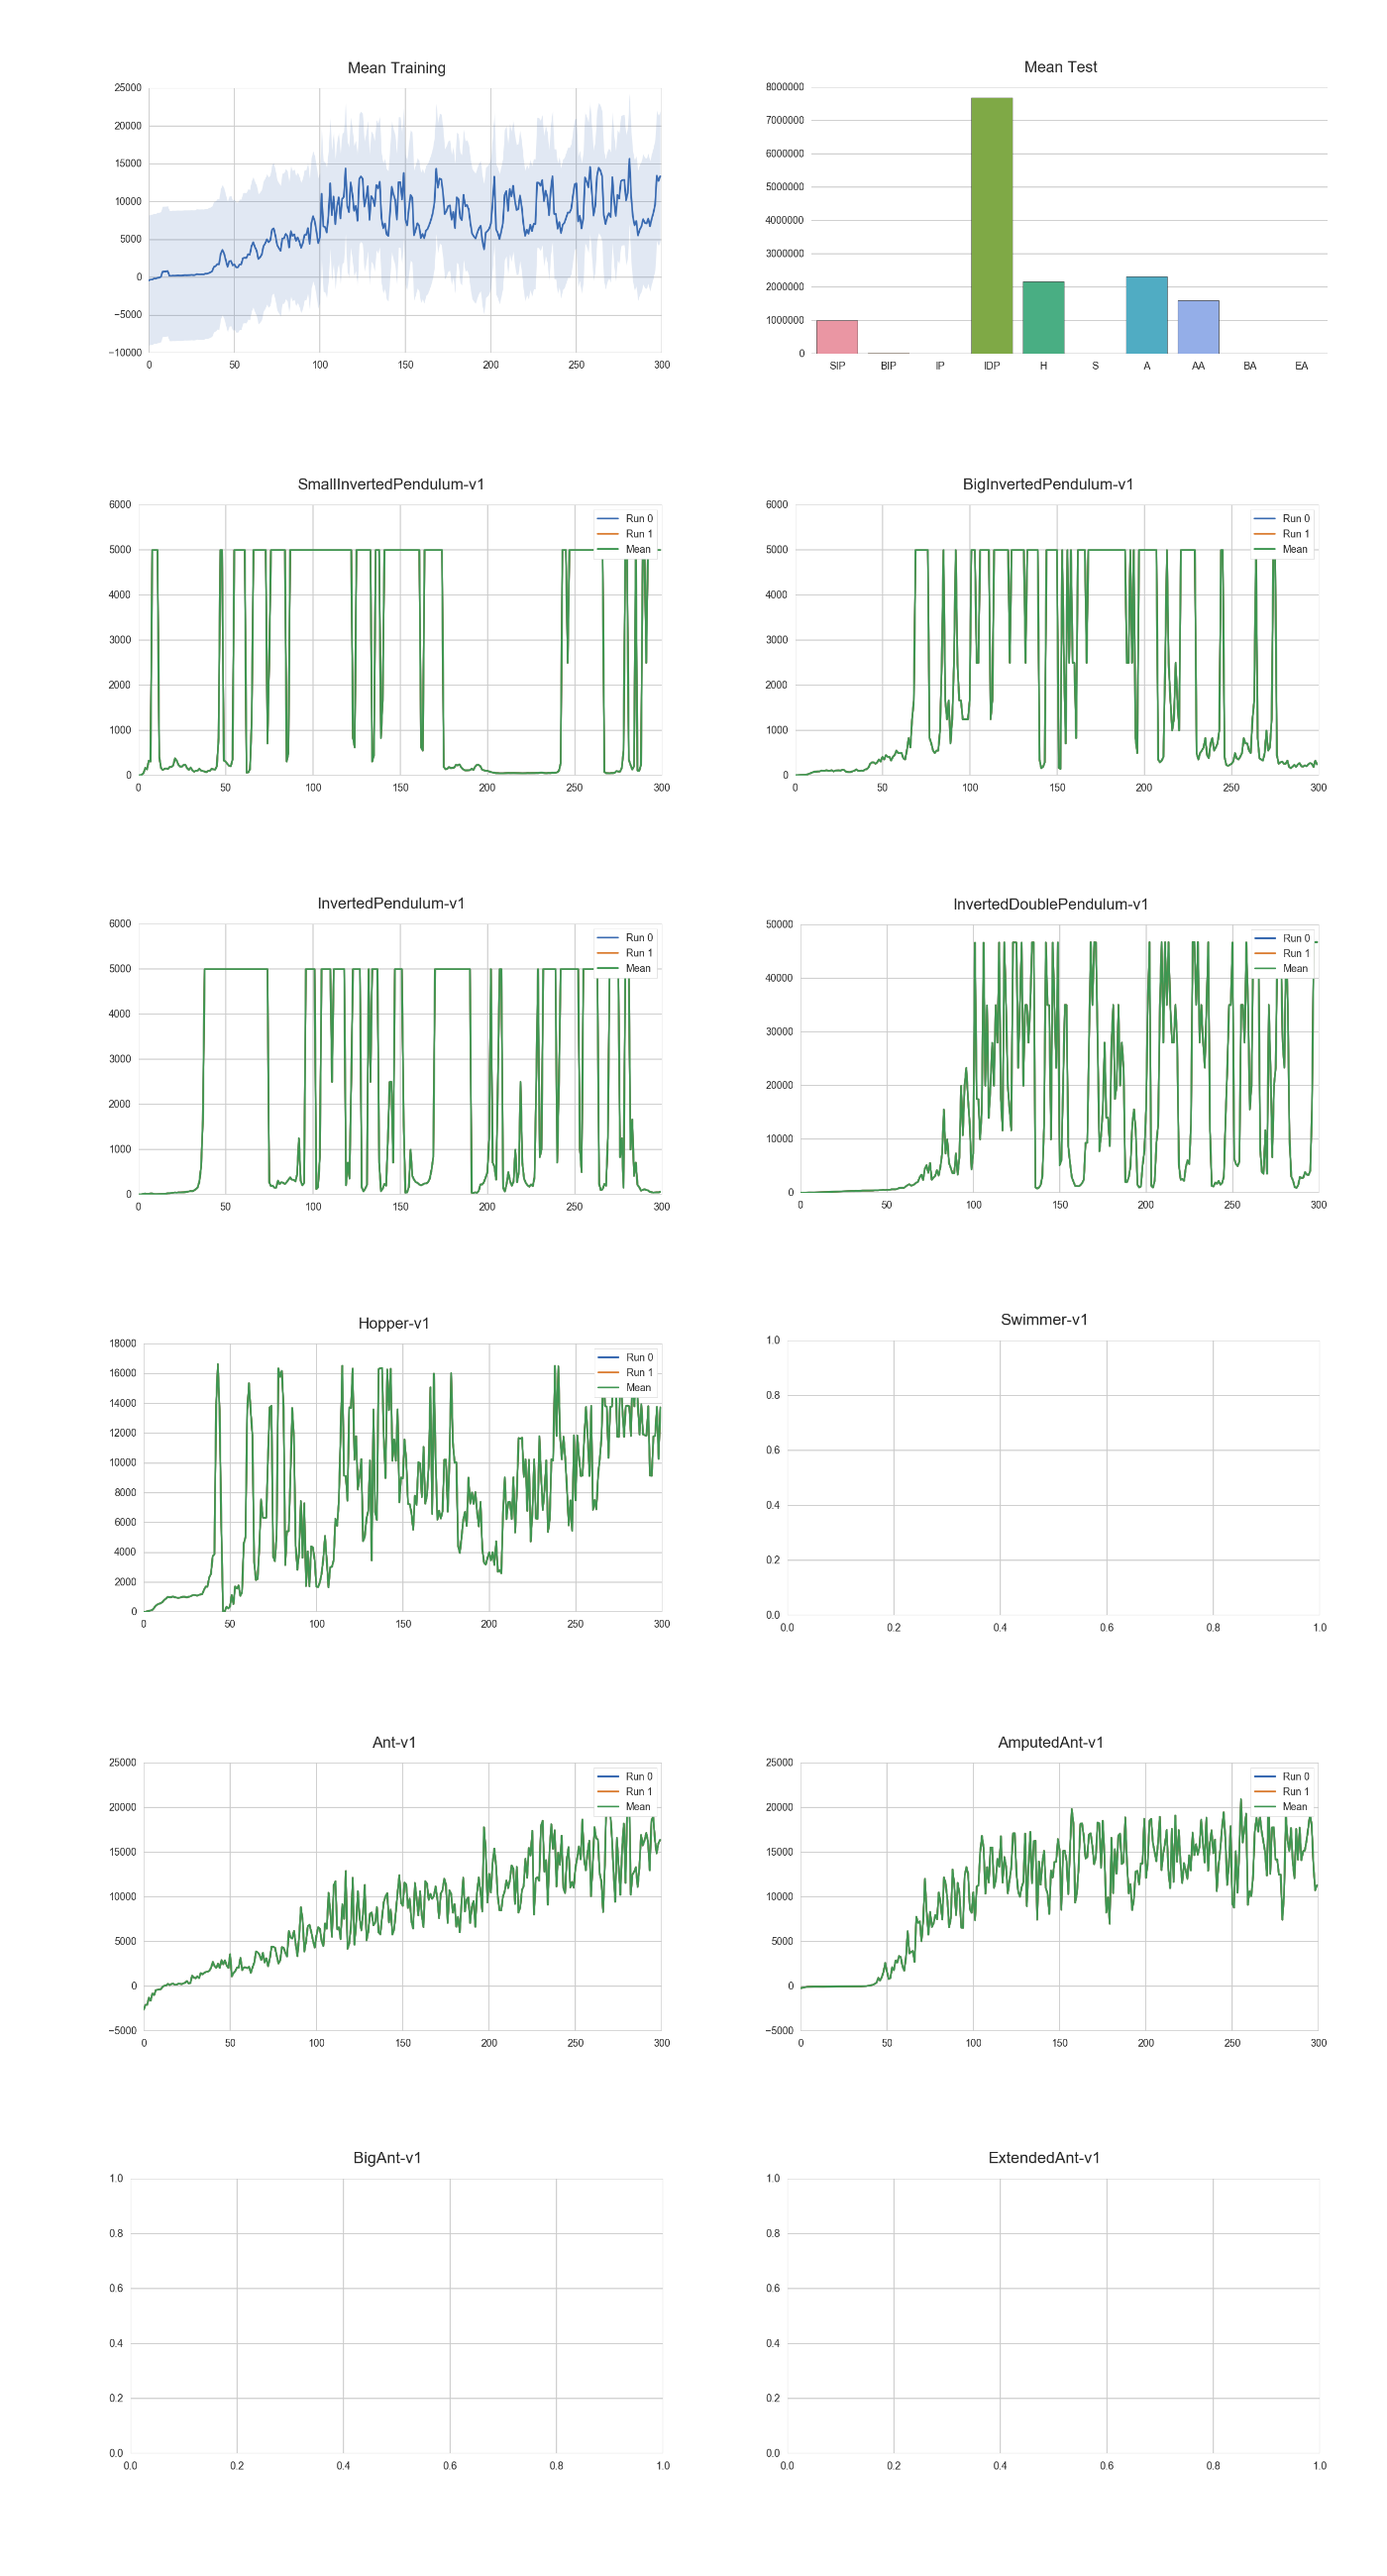
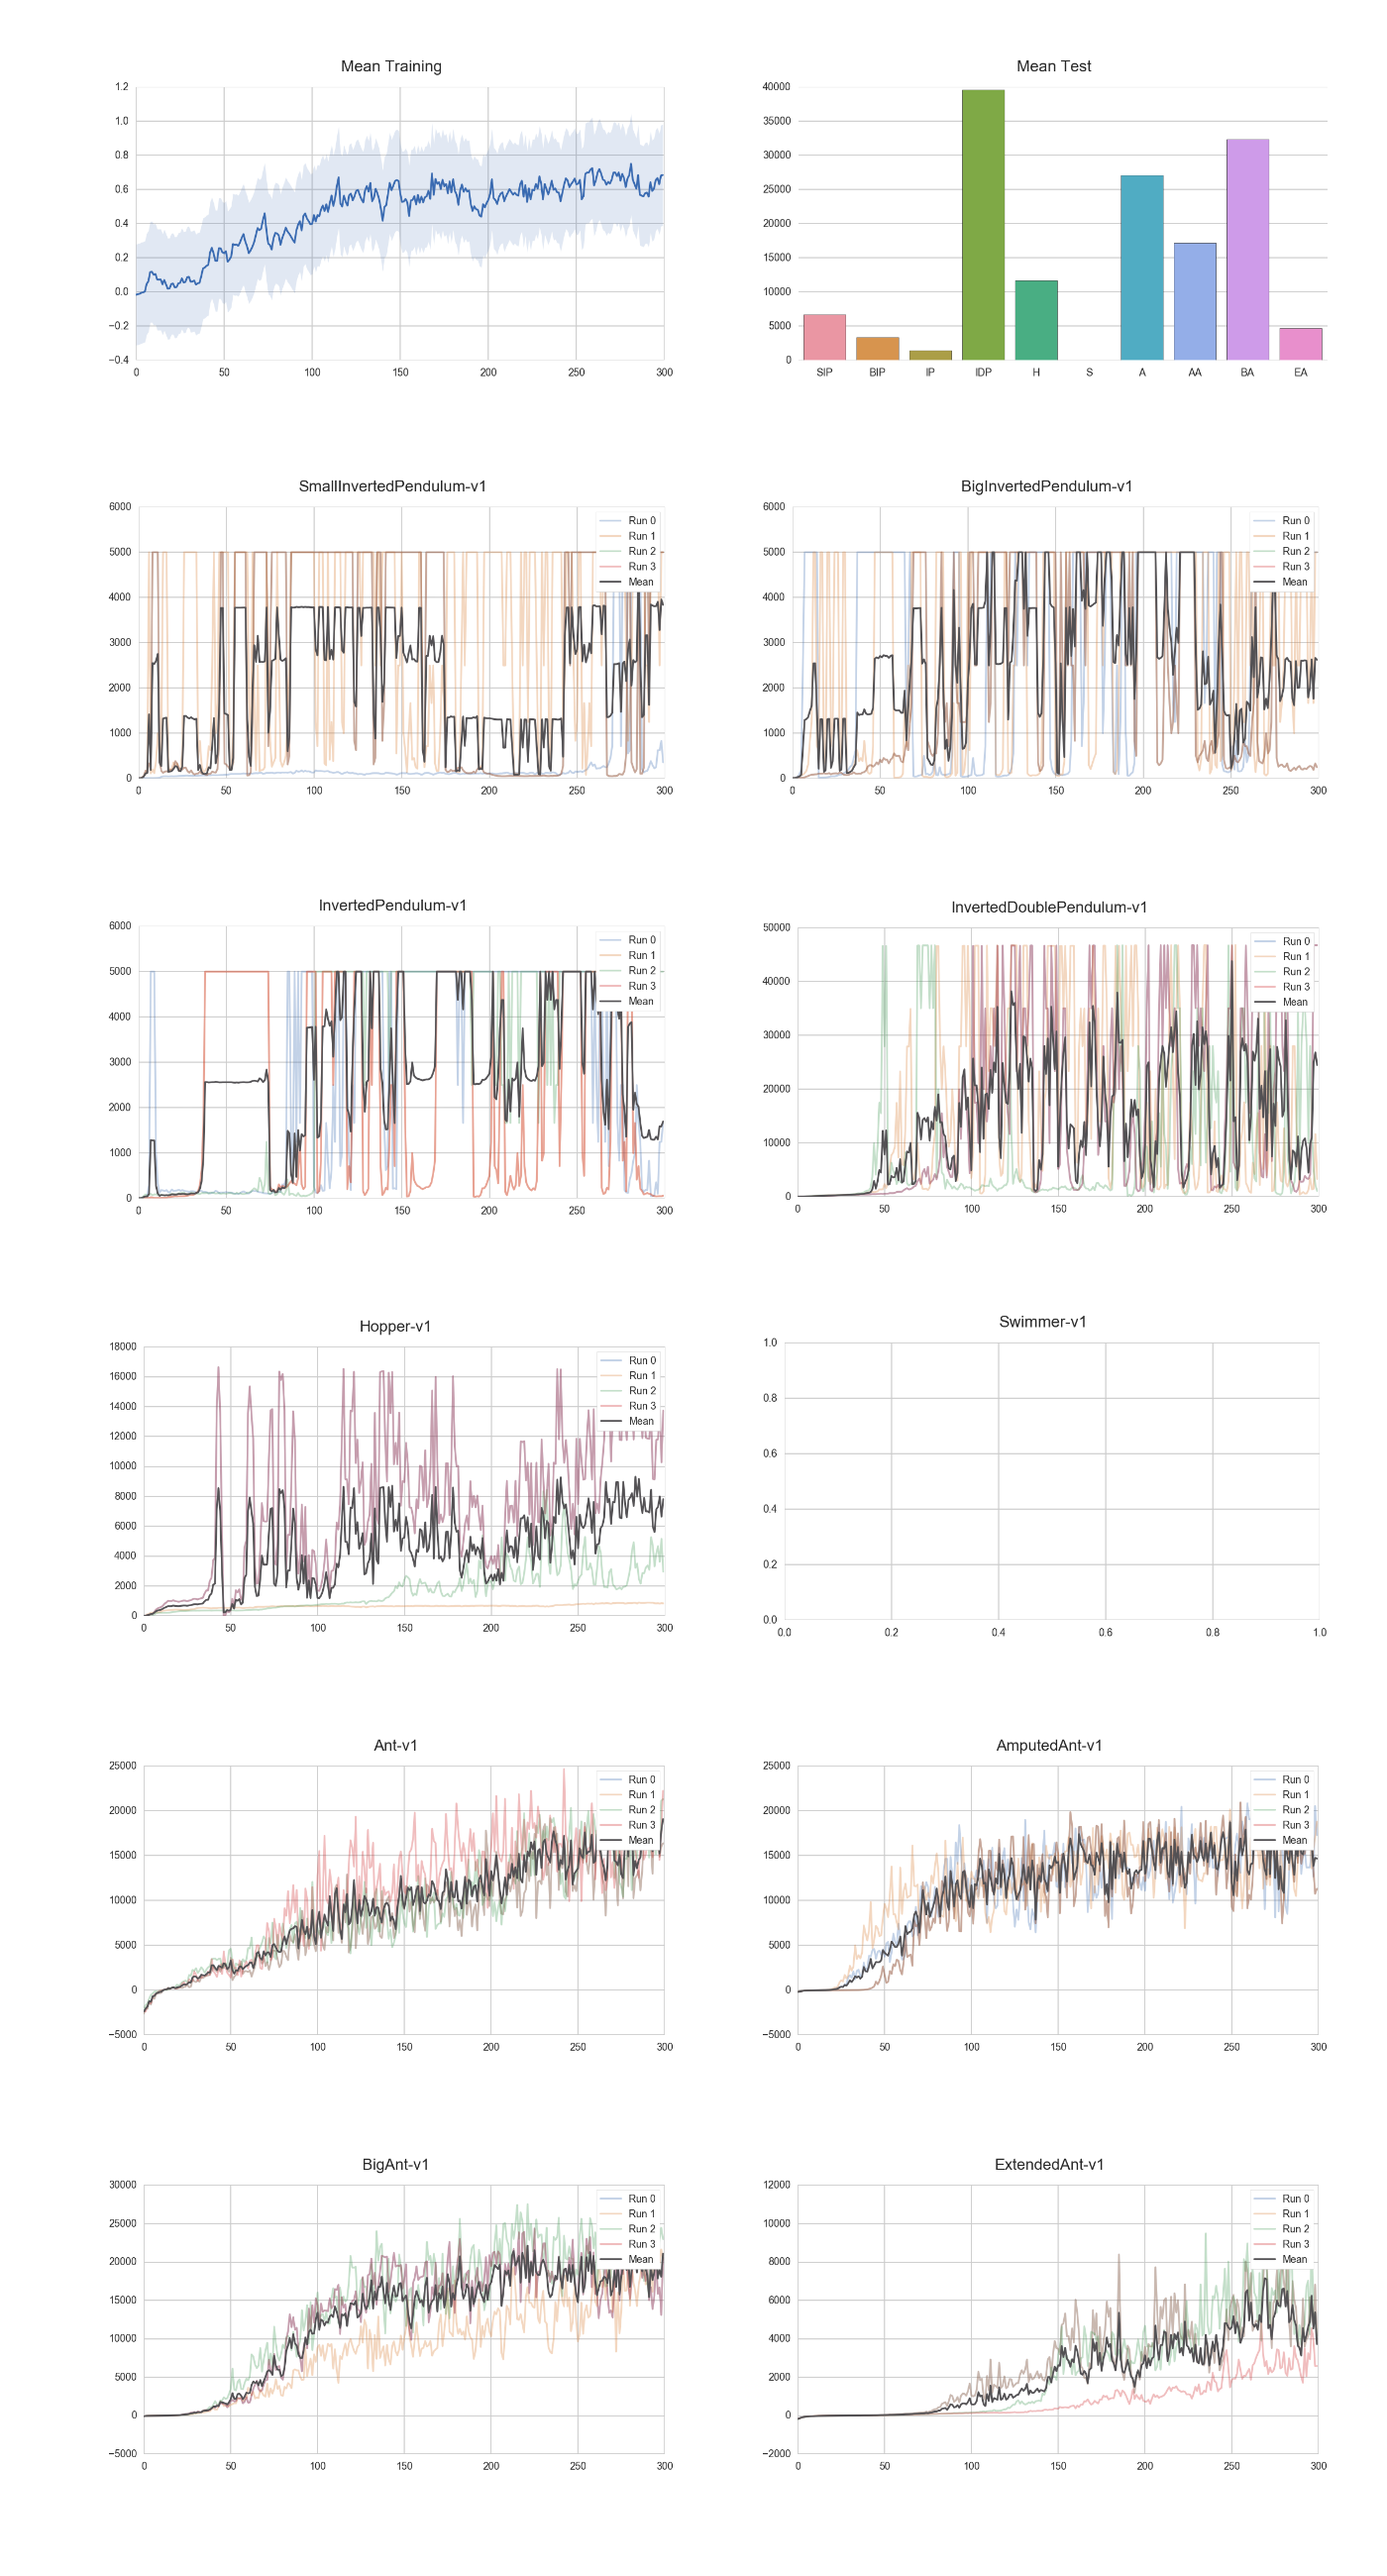
post momentum results

diff --git a/plot_exp.py b/plot_exp.py
@@ -25,15 +25,15 @@ if __name__ == '__main__':
             score = res.params['test_reward']
             train_rewards = res.params['avg_reward']
             e_rewards.append(np.array(train_rewards))
-            e_scores.append(score)
+            e_scores.append(score / float(res.params['test_n_iter']))
             p.plot(range(len(train_rewards)),
-                   train_rewards, label='Run ' + str(i))
+                   train_rewards, label='Run ' + str(i), alpha=0.3)
         mean_score = 0
         if len(e_scores) > 0:
             mean_score = np.mean(e_scores)
             mean_rewards = np.mean(e_rewards, axis=0)
             p.plot(range(len(mean_rewards)), mean_rewards, label='Mean')
-            exp_rewards.append(mean_rewards)
+            exp_rewards.append(mean_rewards / np.abs(np.max(mean_rewards)))
         exp_plots.append(p)
         exp_scores.append(mean_score)
 
@@ -41,7 +41,7 @@ if __name__ == '__main__':
     rewards_std = np.std(exp_rewards)
     mean_train.plot(range(len(rewards_mean)), rewards_mean, jitter=rewards_std)
     mean_test.bar(exp_scores, labels=[''.join(c for c in name if c.isupper())
-                  for name in exp_names])
+                                      for name in exp_names])
 
     # Plot Altogether
     cont = Container(cols=2, rows=1 + int(ceil(len(exp_names) / 2.0)))

diff --git a/trpo.py b/trpo.py
@@ -303,18 +303,20 @@ class TRPO(object):
             # return params
 
         params = K.batch_get_value(self.params)
-        params = [p + self.momentum * prev 
-                  for p, prev in zip(params, self.previous)]
+        # Apply momentum pre-linesearch:
+        # params = [p + self.momentum * prev 
+                  # for p, prev in zip(params, self.previous)]
         update = linesearch(loss, params, fullstep, neggdotdir / lm)
         update = [u + f for f, u in zip(fullstep, update)]
         if DISTRIBUTED:
             update = sync_list(update, avg=True)
             # fullstep = sync_list(fullstep, avg=True)
-        # new_params = [u + f for u, f in zip(update, fullstep)]
         self.previous = [self.momentum * prev + u
                          for prev, u in zip(self.previous, update)]
-        # new_params = [p + u for p, u in zip(params, self.previous)]
-        new_params = [p + u for p, u in zip(params, update)]
+        # Apply momentum pre-linesearch:
+        # new_params = [p + u for p, u in zip(params, update)]
+        # Apply momentum post-linesearch:
+        new_params = [p + u for p, u in zip(params, self.previous)]
         self.set_params(new_params)
         # End Linesearch
 

diff --git a/benchmark.py b/benchmark.py
@@ -5,7 +5,7 @@ import numpy as np
 import randopt as ro
 import mj_envs
 
-from random import random
+from random import random, SystemRandom
 from time import time
 from mpi4py import MPI
 from argparse import ArgumentParser
@@ -71,7 +71,7 @@ class Filter:
 # Define constants
 rank = MPI.COMM_WORLD.Get_rank()
 size = MPI.COMM_WORLD.Get_size()
-RNG_SEED = 1234
+RNG_SEED = SystemRandom().randint(0, 99999)
 MJ_ENVS = ['SmallInvertedPendulum-v1', 'BigInvertedPendulum-v1', 'AmputedAnt-v1', 'BigAnt-v1', 'ExtendedAnt-v1']
 f = Filter()
 
@@ -95,6 +95,7 @@ if __name__ == '__main__':
         'delta': ro.Constant(args.delta),
         'cg_damping': ro.Constant(args.cg_damping),
         'gamma': ro.Constant(args.gamma),
+        'rng_seed': ro.Constant(RNG_SEED),
     })
     exp.sample_all_params()
 
